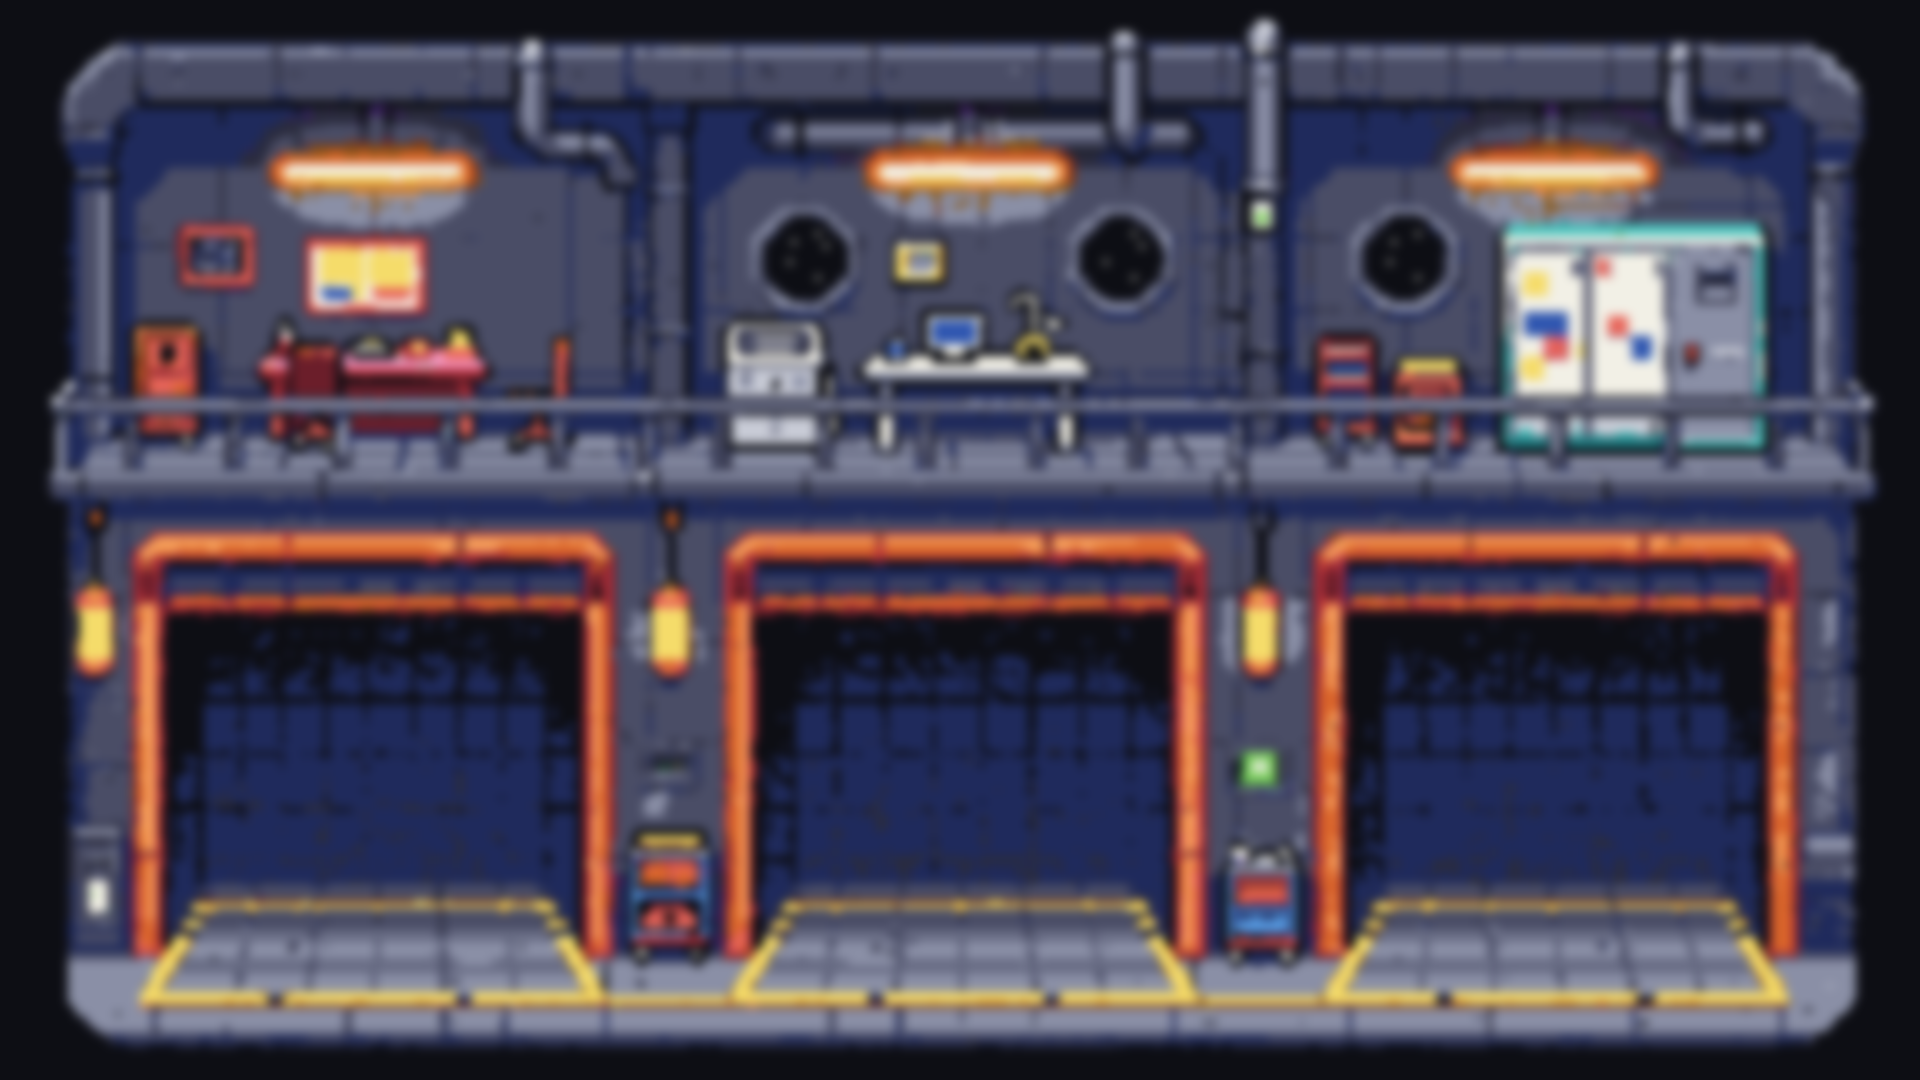
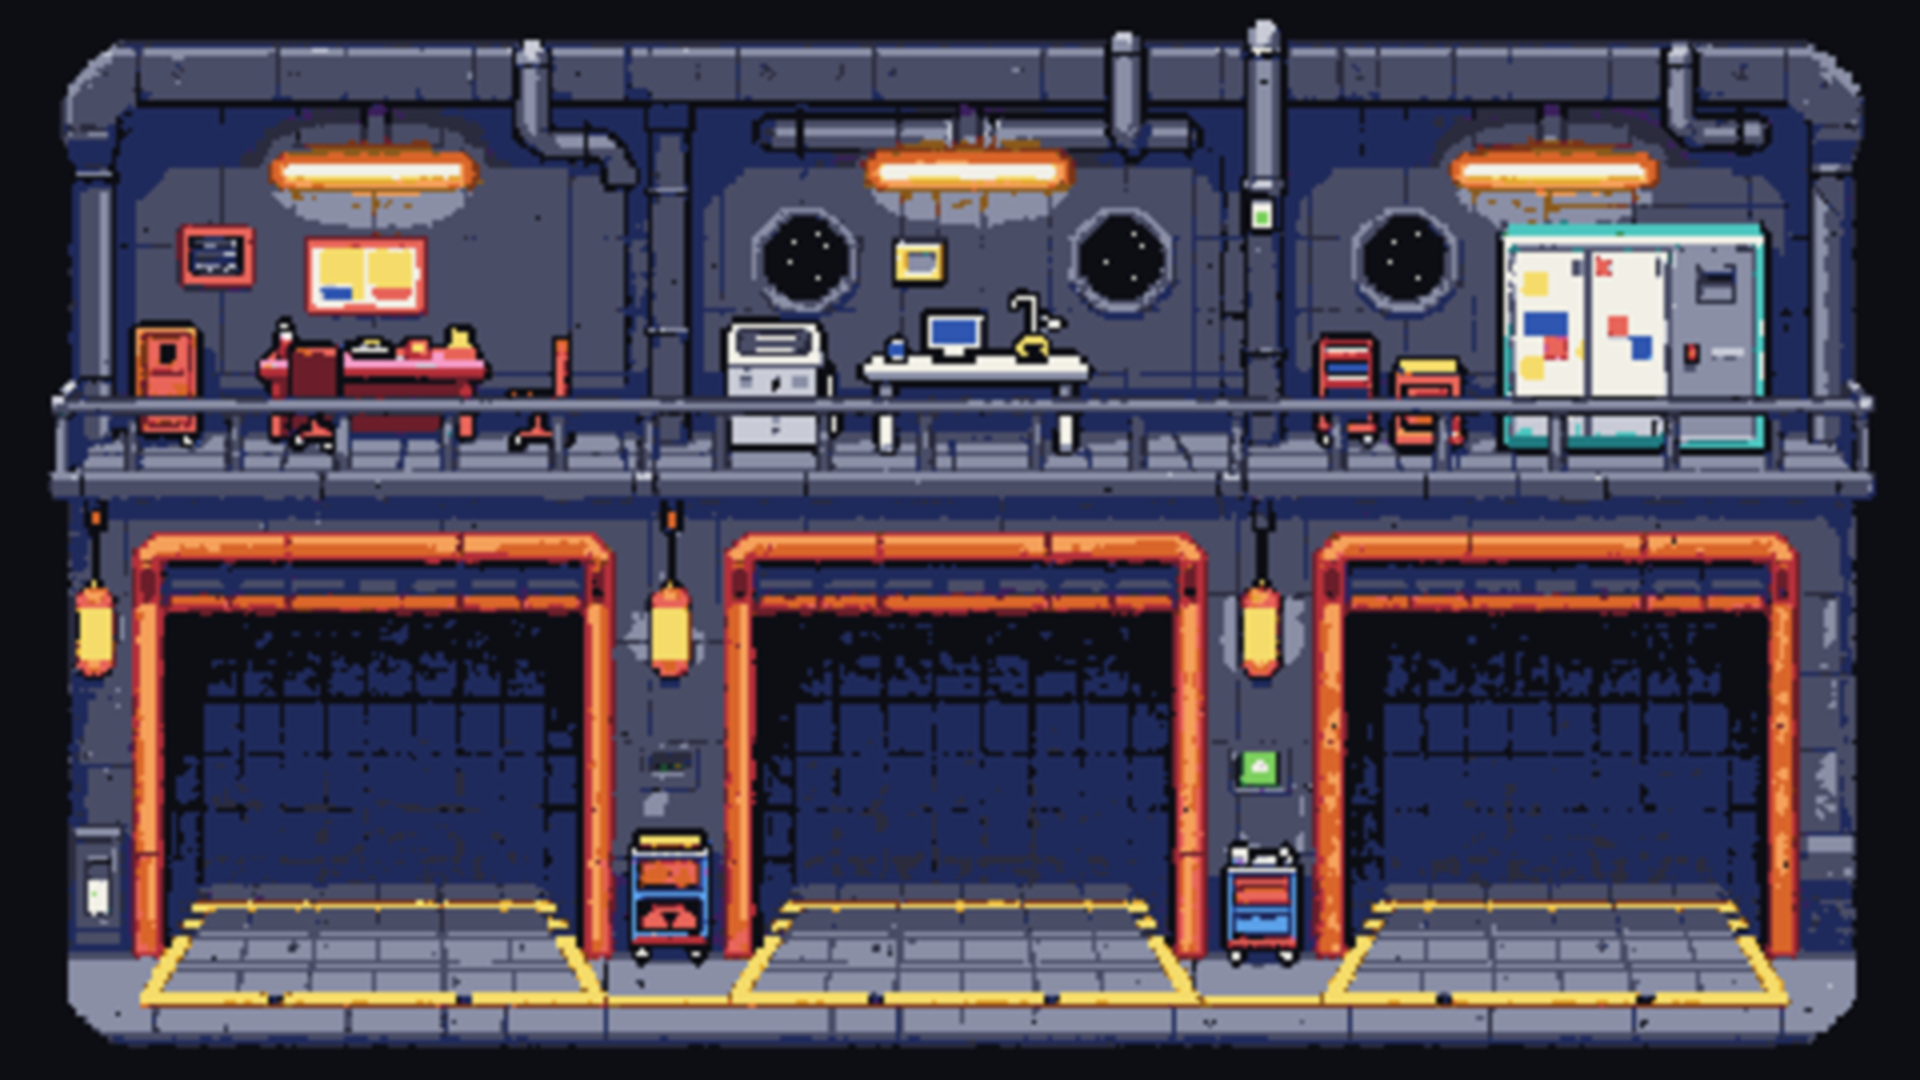
Refonte 2.5D : garage restylé en img2img (flou 1,5, débruitage 0,8)

diff --git a/tools/asset_specs.py b/tools/asset_specs.py
@@ -234,8 +234,8 @@ def specs() -> list[dict[str, Any]]:
     # Le garage garde la composition de l'ancien décor (baies, mezzanine, mobilier : coordonnées utilisées par le
     # code) : restylage img2img de assets/backgrounds/garage_layout.png.
     out.append({"id": "garage", "category": "background", "out": "backgrounds/garage.png", "w": 1920, "h": 1088, "seeds": SEEDS_3,
-                "init": "art/layout/garage_layout.png", "denoise": 0.62,
-                "prompt": f"{BG_STYLE}, side view cross-section of a cozy orbital space station garage on two floors, ground floor with three large empty repair bays side by side with orange doorframes, hanging lamps, tool carts, polished metal floor with yellow hazard lines, upper floor mezzanine with an office desk, a lab bench and a coffee corner behind a metal railing, pipes on the ceiling, round portholes showing stars and a planet, warm industrial lighting, no characters, no vehicles, no text",
+                "init": "art/layout/garage_layout.png", "denoise": 0.8,
+                "prompt": f"{BG_STYLE}, side view cross-section of a cozy orbital space station garage on two floors, ground floor with three large empty repair bays side by side with orange doorframes, hanging lamps, tool carts, polished metal floor with yellow hazard lines, upper floor mezzanine with an office desk, a lab bench and a coffee corner behind a metal railing, pipes on the ceiling, round portholes showing stars and a planet, warm industrial lighting, no characters, no vehicles, no text, sharp focus, crisp details",
                 "pp": {"mode": "opaque", "size": [480, 270]}})
     loc_prompts = {
         "loc_ferropolis": "huge space scrapyard station with mountains of broken spaceship wrecks, cranes, magnets, orange sunset light, smoke",
